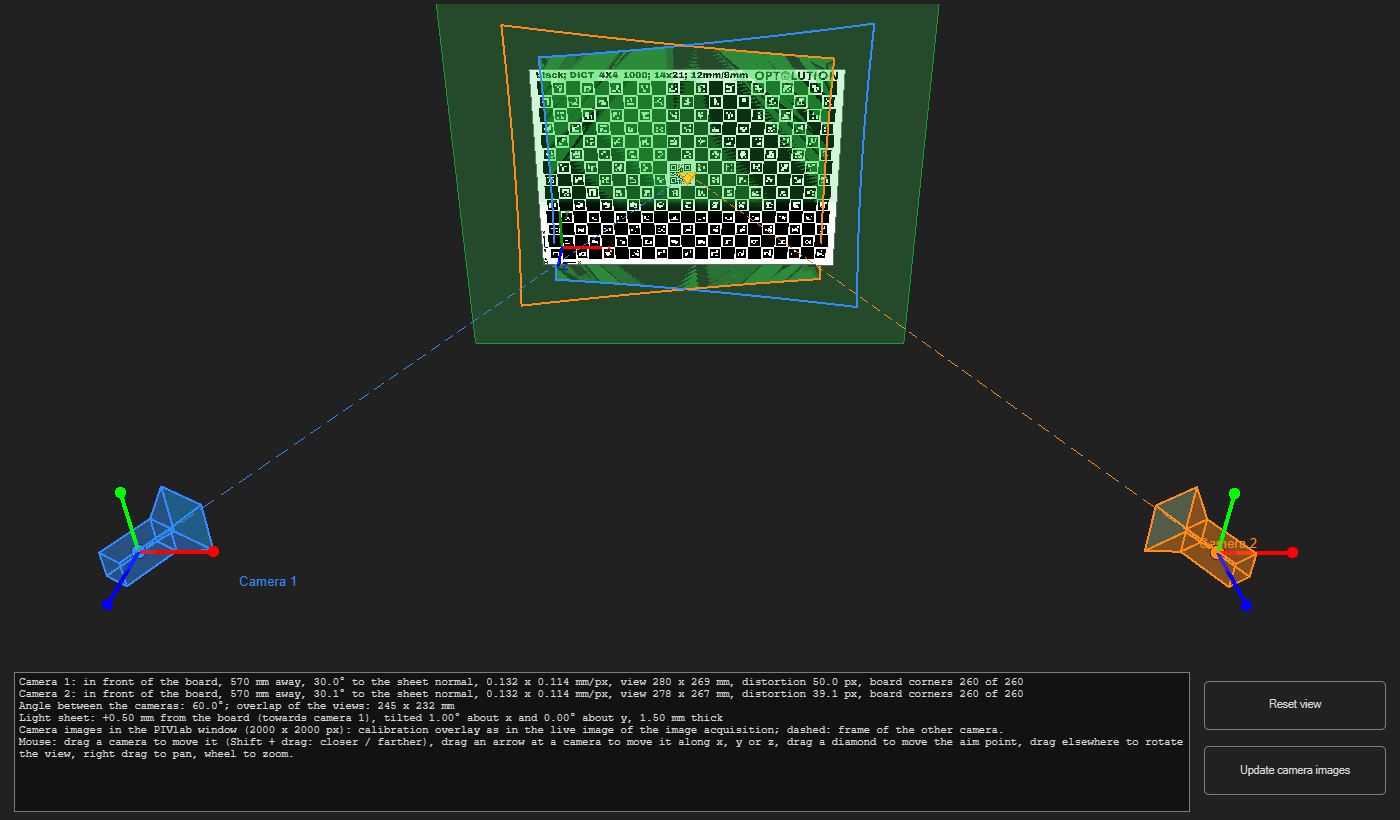
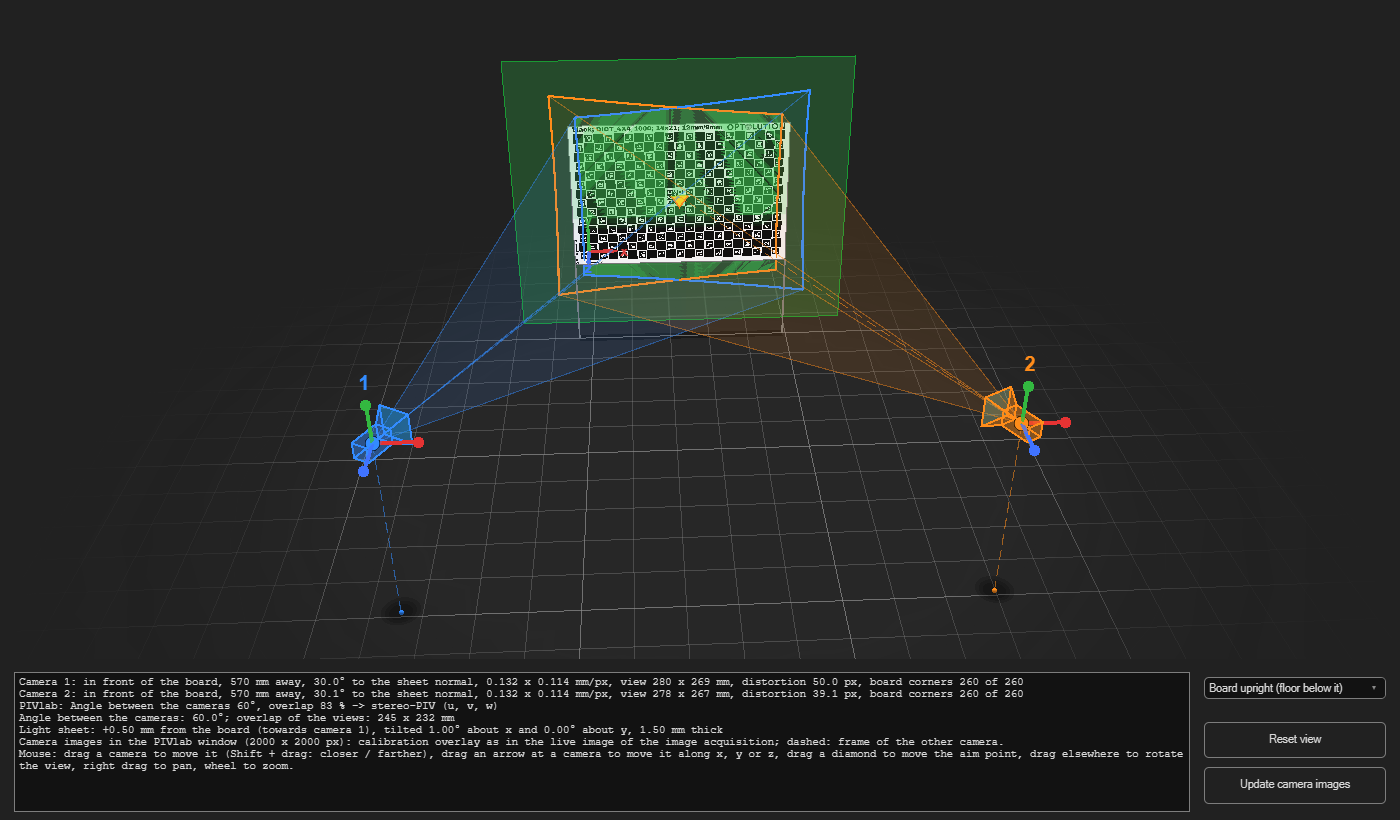
Manual: new screenshots of the 3D views of cameras and board
From stereo (c5947f9, manual part only): new images of "Show camera
positions" (calibration images) and of the 3D preview of the particle image
generator, and a new figure of "Show 3D setup" on the Stereo-PIV page.

diff --git a/docs/manual/pages/camera-calibration.html b/docs/manual/pages/camera-calibration.html
@@ -155,9 +155,10 @@
       distortion pattern being corrected.</figcaption>
     </figure>
     <figure>
-      <img src="../assets/img/camera-calibration/camera-positions.jpg" alt="A 3D scene showing the calibration board and the estimated camera position for each calibration image as small camera icons">
-      <figcaption><span class="ui">Show camera positions</span> — a 3D reconstruction of where
-      the camera was relative to the board in each calibration photo.</figcaption>
+      <img src="../assets/img/camera-calibration/camera-positions.jpg" alt="A 3D scene: the calibration board as printed, with the x, y, z axes of the results at its origin, and around it twelve numbered camera symbols, one per calibration image, each with a dashed line to the board centre and a line down to a grid on the floor">
+      <figcaption><span class="ui">Show camera positions</span> — where the camera was relative to
+      the board in each calibration image, numbered as the images. Drag to rotate the view, right-drag
+      to pan, use the wheel to zoom.</figcaption>
     </figure>
 
     <h3 id="applying-calib">Applying it</h3>

diff --git a/docs/manual/pages/stereo-piv.html b/docs/manual/pages/stereo-piv.html
@@ -121,6 +121,12 @@
     <p><span class="ui">Show 3D setup</span> draws cameras, board and light sheet, with a report of
     the viewing angles, the angle between the cameras, the scale, the overlap and the expected error
     of w relative to u and v.</p>
+    <figure>
+      <img src="../assets/img/stereo-piv/show-3d-setup.png" width="1150" height="720" loading="lazy" alt="3D view of the stereo setup: the board as printed with the axes of the results, camera 1 (blue) and camera 2 (orange) with their fields of view on the board, the overlap of both views in green and the light sheet from the disparity in yellow, a grid on the floor, and at the top left the report of the calibration">
+      <figcaption><span class="ui">Show 3D setup</span> after the disparity correction: both cameras,
+      their views, the overlap and the light sheet. Drag to rotate the view, right-drag to pan, use the
+      wheel to zoom.</figcaption>
+    </figure>
 
     <h2 id="disparity">4. Disparity correction</h2>
     <p>The board is never exactly in the light sheet, so a small shift between the cameras remains:

diff --git a/docs/manual/pages/synthetic-images.html b/docs/manual/pages/synthetic-images.html
@@ -44,7 +44,7 @@
       <a href="capture.html#calibration-overlay">calibration overlay</a> of the live image.</td></tr>
     </table>
     <figure>
-      <img src="../assets/img/synthetic-images/preview-3d.png" alt="3D preview window: the ChArUco board in the light sheet, the views of camera 1 (blue) and camera 2 (orange) on the sheet, the two cameras with arrows for moving them along x, y and z, and below a report of the viewing geometry">
+      <img src="../assets/img/synthetic-images/preview-3d.png" alt="3D preview window: the ChArUco board in the light sheet, camera 1 (blue) and camera 2 (orange) with their fields of view on the sheet and arrows for moving them along x, y and z, a grid on the floor below, and underneath a report of the viewing geometry">
       <figcaption><span class="ui">Show 3D preview</span>: board, light sheet and cameras.</figcaption>
     </figure>
     <figure>
